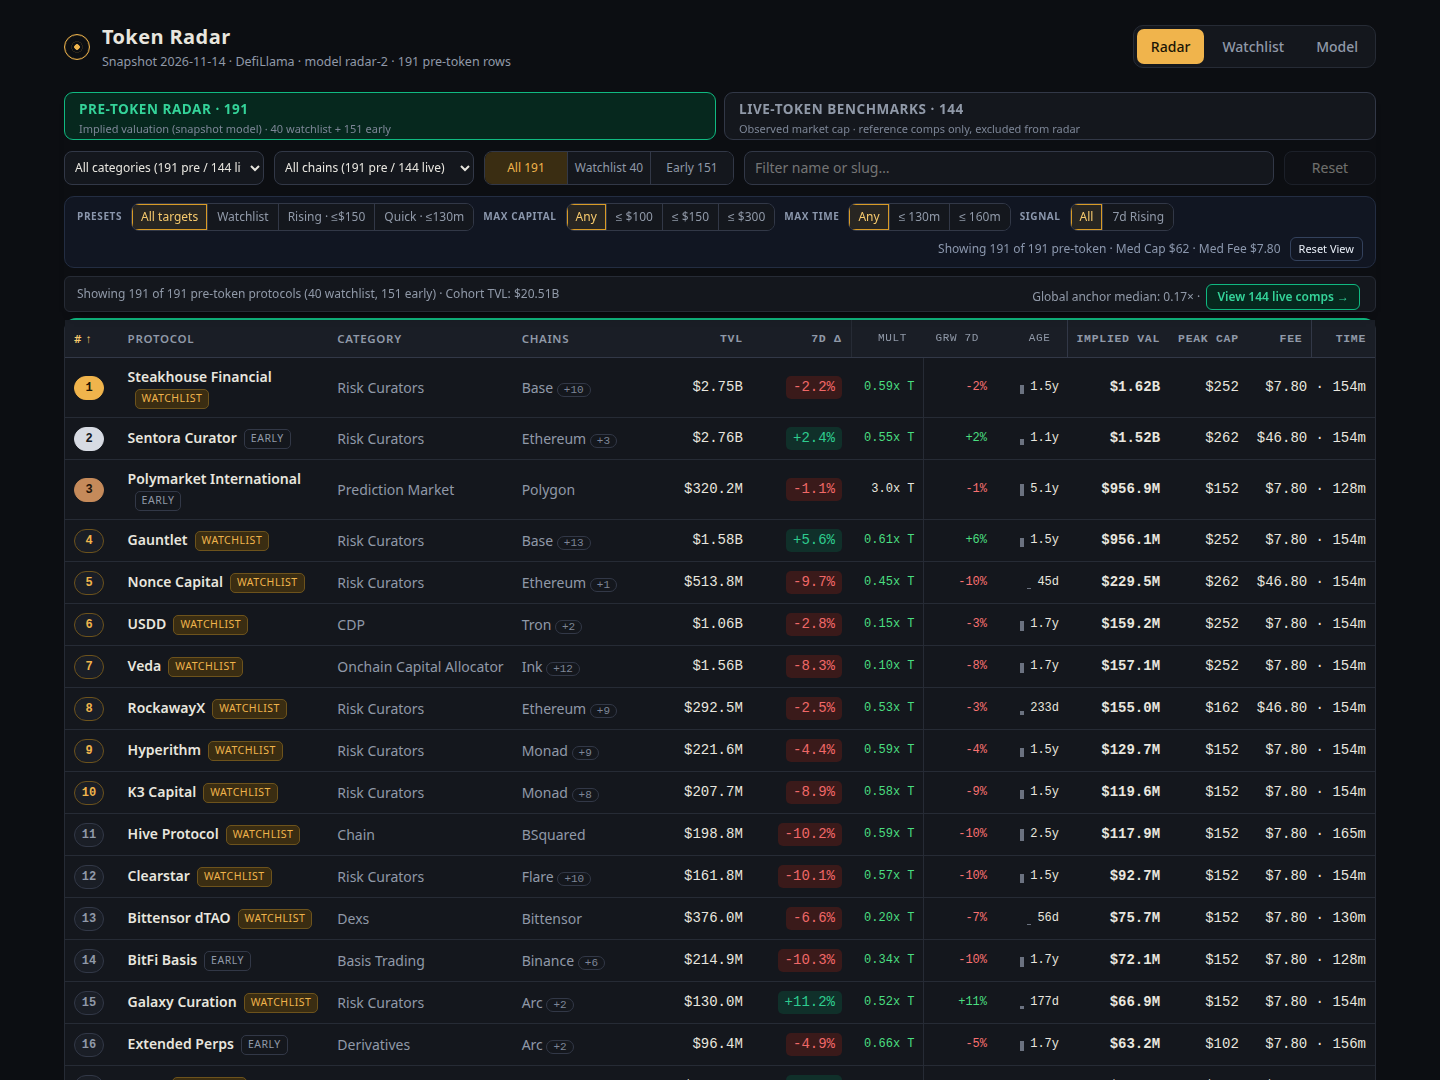
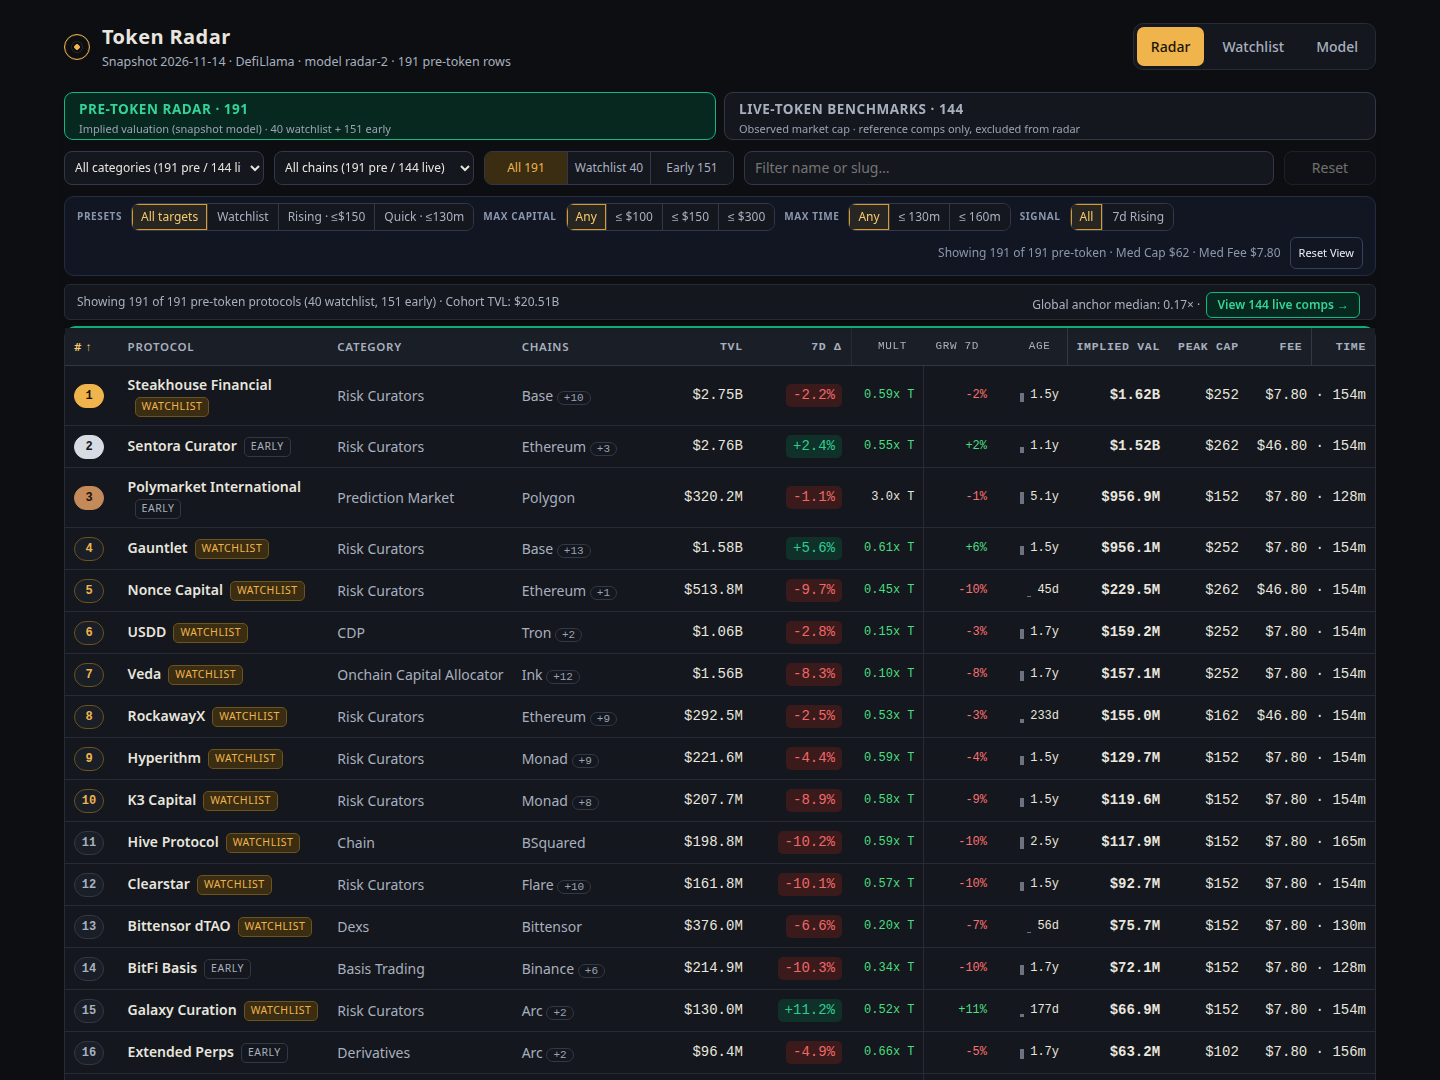
Dashboard v17: mobile and accessibility finish - brighter mute/dim contrast, larger tap targets (tabs/seg/back/ghost), stronger focus outline, 480px mobile rule offset by duplicate-declaration removal

diff --git a/dashboard/app.css b/dashboard/app.css
@@ -1,4 +1,4 @@
-:root{--bg:#0c0e12;--panel:#14171d;--panel2:#1a1e26;--line:#262b35;--line2:#323847;--ink:#e8e6df;--mute:#9099a8;--dim:#7d8697;
+:root{--bg:#0c0e12;--panel:#14171d;--panel2:#1a1e26;--line:#262b35;--line2:#323847;--ink:#e8e6df;--mute:#a8b0bf;--dim:#9aa3b2;
 --amber:#f0b44c;--amber-d:#3a2d12;--up:#4fd3a4;--up-d:#10302a;--down:#ff7b6e;--down-d:#3a1a1a;--blue:#7aa8ff;
 --mono:ui-monospace,"SF Mono",Menlo,Consolas,"Liberation Mono",monospace;--sans:system-ui,-apple-system,"Segoe UI",Roboto,"Helvetica Neue",Arial,sans-serif}
 *{box-sizing:border-box}
@@ -13,7 +13,7 @@ button,input,select{font:inherit;color:inherit}
 .brand p{color:var(--mute);font-size:12.5px;margin-top:1px}
 .blip{width:26px;height:26px;border-radius:50%;border:1.5px solid var(--amber);position:relative;flex:none;background:radial-gradient(circle,var(--amber) 0 2.5px,transparent 3px),repeating-radial-gradient(circle,transparent 0 5px,#f0b44c22 5px 6px)}
 .tabs{display:flex;gap:4px;background:var(--panel);border:1px solid var(--line);border-radius:10px;padding:3px}
-.tabs button{background:none;border:0;padding:7px 14px;border-radius:7px;color:var(--mute);cursor:pointer;font-weight:550}
+.tabs button{background:none;border:0;padding:9px 14px;border-radius:7px;color:var(--mute);cursor:pointer;font-weight:550}
 .tabs button:hover{color:var(--ink)}
 .tabs button[aria-selected=true]{background:var(--amber);color:#1a1405}
 main{max-width:1240px;margin:0 auto;padding:6px 24px 30px;outline:0}
@@ -21,13 +21,13 @@ main{max-width:1240px;margin:0 auto;padding:6px 24px 30px;outline:0}
 .stat{background:var(--panel);border:1px solid var(--line);border-radius:10px;padding:10px 14px}
 .stat b{display:block;font:600 21px var(--mono);font-variant-numeric:tabular-nums}
 .stat span{color:var(--mute);font-size:12px}
-.bar{display:flex;gap:10px;flex-wrap:wrap;align-items:center;margin-bottom:12px}
+.bar{display:flex;gap:10px;align-items:center}
 .bar input,.bar select{background:var(--panel);border:1px solid var(--line2);border-radius:8px;padding:7px 10px;min-width:0}
 .bar input{flex:1 1 200px}
 .bar select{max-width:200px}
 .bar input:focus,.bar select:focus,button:focus-visible,tr:focus-visible{outline:2px solid var(--blue);outline-offset:1px}
 .seg{display:flex;border:1px solid var(--line2);border-radius:8px;overflow:hidden}
-.seg button{background:var(--panel);border:0;padding:7px 12px;cursor:pointer;color:var(--mute);border-right:1px solid var(--line2)}
+.seg button{background:var(--panel);border:0;padding:9px 12px;cursor:pointer;color:var(--mute);border-right:1px solid var(--line2)}
 .seg button:last-child{border:0}
 .seg button[aria-pressed=true]{background:var(--amber-d);color:var(--amber)}
 .count{color:var(--mute);font-size:12.5px;margin-left:auto}
@@ -61,9 +61,9 @@ td.mut{color:var(--mute)}
 .val{font-weight:600;color:var(--ink)}
 .empty{padding:40px;text-align:center;color:var(--mute)}
 .hint{color:var(--dim);font-size:12px;margin-top:10px}
-.back{background:var(--panel);border:1px solid var(--line2);border-radius:8px;padding:6px 12px;cursor:pointer;margin-bottom:14px}
+.back{background:var(--panel);border:1px solid var(--line2);border-radius:8px;padding:9px 12px;cursor:pointer}
 .back:hover{border-color:var(--amber);color:var(--amber)}
-.dh{display:flex;gap:14px;align-items:center;flex-wrap:wrap;margin-bottom:14px}
+.dh{display:flex;gap:14px;align-items:center;flex-wrap:wrap}
 .dh h2{font-size:24px;font-weight:650}
 .dh .big{margin-left:auto;text-align:right}
 .dh .big b{display:block;font:650 28px var(--mono);color:var(--amber)}
@@ -133,7 +133,7 @@ code{font-family:var(--mono);background:var(--panel2);padding:1px 5px;border-rad
 .econ .seg button{padding:0 9px;height:26px;font-size:12px;line-height:24px}
 .econ .seg button[aria-pressed=true]{color:#f7ca6d;background:rgba(217,155,38,.12);box-shadow:inset 0 0 0 1px #d99b26}
 .econ .ro{margin-left:auto;font-size:12px;color:#8b97ad}
-.ghost{background:none;border:1px solid #33415c;color:#e8eef7;border-radius:6px;height:24px;padding:0 8px;font-size:11px;cursor:pointer}
+.ghost{background:none;border:1px solid #33415c;color:#e8eef7;border-radius:6px;height:32px;padding:0 8px;font-size:11px;cursor:pointer}
 td.empty{text-align:center;padding:32px 16px;color:#8b97ad;font-size:12px;line-height:1.7}td.empty b{color:#e8eef7;font-size:14px}
 td,th,.stat b,.sum b{font-variant-numeric:tabular-nums lining-nums}
 .chg.up{color:#2ecc8f}.chg.down{color:#f06868}.chg.flat{color:#8b97ad;background:none}
@@ -160,9 +160,9 @@ td.ev.up{color:#4ade80}td.ev.down{color:#f87171}td.ev.flat{color:#9ca3af}
 .why b{font:650 22px var(--mono);color:var(--ink);margin-bottom:2px}
 .why small{font:12px var(--mono);color:var(--mute)}
 .why em{font-size:12px;color:var(--dim);margin-top:4px}
-.take{font-style:italic;color:#9ca3af;margin:8px 2px 12px}
+.take{font-style:italic;color:#9ca3af}
 #farm-ledger{background:#111622;border-color:#232d42}
-.lh{display:flex;justify-content:space-between;align-items:center;margin-bottom:8px}.lh h3{margin:0;color:#e8eef7;letter-spacing:.07em}
+.lh{display:flex;justify-content:space-between;align-items:center}.lh h3{margin:0;color:#e8eef7;letter-spacing:.07em}
 .cad{font:10px var(--mono);padding:2px 7px;border-radius:4px;border:1px solid #2b3852;color:#8b97ad;background:#161d2b}
 .scen{display:grid;grid-template-columns:repeat(3,1fr);gap:8px;margin-bottom:4px}
 .scen div{border:1px solid #232d42;border-radius:8px;padding:6px 10px;background:#0f1420;display:flex;flex-direction:column;gap:1px}
@@ -171,7 +171,7 @@ td.ev.up{color:#4ade80}td.ev.down{color:#f87171}td.ev.flat{color:#9ca3af}
 .scen b{font:650 15px var(--mono);color:var(--ink)}
 .scen small{font:11.5px var(--mono);color:var(--mute)}
 .assume{font-size:10.5px;color:var(--dim);margin:2px 2px 10px}
-.sum{display:grid;grid-template-columns:repeat(4,1fr);gap:8px;margin-bottom:10px}
+.sum{display:grid;grid-template-columns:repeat(4,1fr);gap:8px}
 .sum div{padding:8px 10px;background:#161d2b;border:1px solid #232d42;border-radius:6px}
 .sum span{display:block;font-size:10px;text-transform:uppercase;color:#8b97ad;letter-spacing:.05em}.sum b{font-size:15px;display:block}.sum small{font-size:10px;color:#6e7b91}
 .sum b.fee,td.fee{color:#e5b567}
@@ -183,14 +183,13 @@ table.ledger tfoot td{border-top:1px solid #2e3b56;border-bottom:0;background:#1
 @media(max-width:820px){.sum{grid-template-columns:repeat(2,1fr)}.whyrow{grid-template-columns:1fr}}
 
 /* v10: sticky controls, row affordances, keyboard */
-:focus-visible{outline:2px solid var(--blue);outline-offset:2px}
+:focus-visible{outline:3px solid var(--blue);outline-offset:2px}
 tbody tr:focus-visible{outline-offset:-2px}
 .ctl{position:sticky;top:0;z-index:5;background:var(--bg);padding-top:8px;margin-top:-8px;box-shadow:0 10px 10px -10px #000c}
 .ctl .strip{margin-bottom:6px}
 .wrap{overflow-x:clip;overflow-y:visible;max-height:none;min-height:0}
 th{top:var(--ctlh,0px);z-index:2}
 tbody tr{scroll-margin-top:calc(var(--ctlh,0px) + 44px);scroll-margin-bottom:16px}
-tbody tr:hover{background:#1b2029}
 tbody tr:hover td:first-child{box-shadow:inset 3px 0 0 var(--line2)}
 tbody tr.sel,tbody tr.sel:hover{background:rgba(240,180,76,.1)}
 tbody tr.sel td:first-child,tbody tr.sel:hover td:first-child{box-shadow:inset 3px 0 0 var(--amber)}
@@ -217,3 +216,4 @@ kbd{font:11px var(--mono);border:1px solid var(--line2);border-bottom-width:2px;
 .mb u{position:absolute;top:0;bottom:0;border-radius:4px}.mb u.pos{left:50%;background:var(--up)}.mb u.neg{right:50%;background:var(--down)}
 .t-surging{color:#2ee6a6}.t-rising{color:var(--up)}.t-flat{color:var(--mute)}.t-falling{color:var(--amber)}.t-dropping{color:var(--down)}.t-unknown{color:var(--dim)}
 .wk{display:grid;grid-template-columns:auto 1fr;gap:3px 12px;margin:0;font-size:12px}.wk dt{color:var(--dim)}.wk dd{margin:0;text-align:right;color:var(--ink)}
+@media(max-width:480px){.scen,.sum{grid-template-columns:1fr 1fr}.bar{flex-wrap:wrap;height:auto}.whyrow{grid-template-columns:1fr}}

diff --git a/lib/a11y.ts b/lib/a11y.ts
@@ -1,0 +1,53 @@
+export interface CssSwap {
+  area: string;
+  file: string;
+  from: string;
+  to: string;
+}
+
+export const CSS_SWAPS: CssSwap[] = [
+  {
+    area: 'contrast',
+    file: 'dashboard/app.css',
+    from: '--mute:#9099a8',
+    to: '--mute:#a8b0bf',
+  },
+  {
+    area: 'contrast',
+    file: 'dashboard/app.css',
+    from: '--dim:#7d8697',
+    to: '--dim:#9aa3b2',
+  },
+  {
+    area: 'tap',
+    file: 'dashboard/app.css',
+    from: 'padding:7px 14px',
+    to: 'padding:9px 14px',
+  },
+  {
+    area: 'tap',
+    file: 'dashboard/app.css',
+    from: '.seg button{background:var(--panel);border:0;padding:7px 12px',
+    to: '.seg button{background:var(--panel);border:0;padding:9px 12px',
+  },
+  {
+    area: 'tap',
+    file: 'dashboard/app.css',
+    from: '#e8eef7;border-radius:6px;height:24px',
+    to: '#e8eef7;border-radius:6px;height:32px',
+  },
+  {
+    area: 'tap',
+    file: 'dashboard/app.css',
+    from: 'radius:8px;padding:6px 12px',
+    to: 'radius:8px;padding:9px 12px',
+  },
+  {
+    area: 'focus',
+    file: 'dashboard/app.css',
+    from: '{outline:2px solid var(--blue);outline-offset:2px}',
+    to: '{outline:3px solid var(--blue);outline-offset:2px}',
+  },
+];
+
+export const MOBILE_RULE = `@media(max-width:480px){.scen,.sum{grid-template-columns:1fr 1fr}.bar{flex-wrap:wrap;height:auto}.whyrow{grid-template-columns:1fr}}`;
